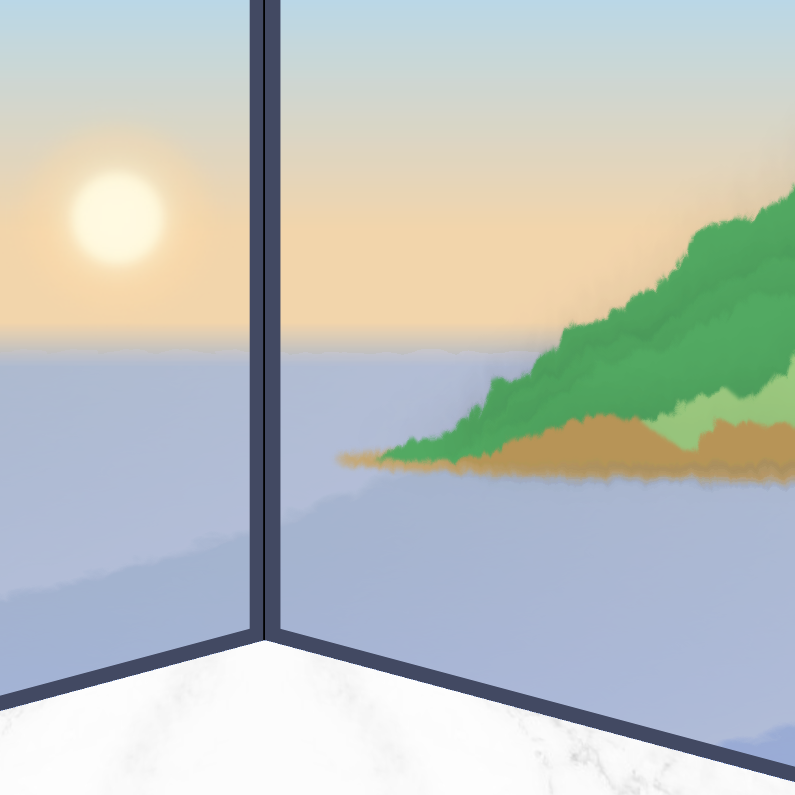
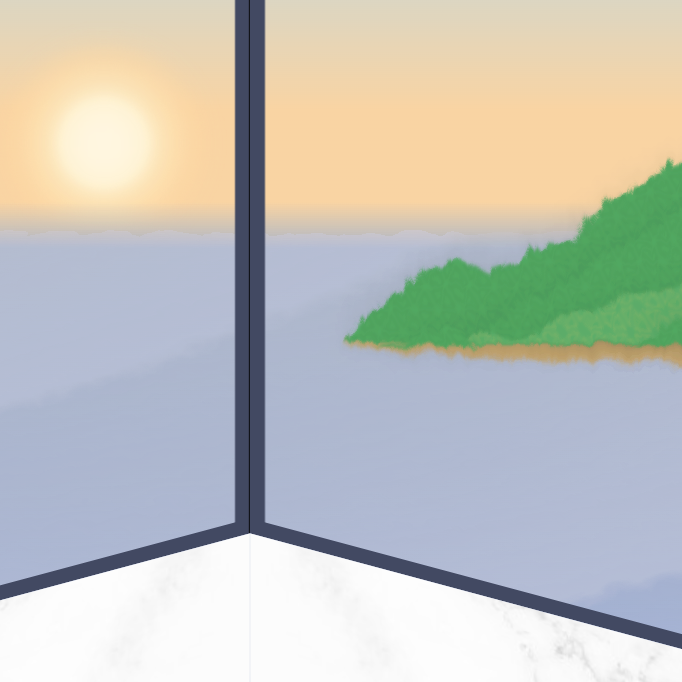
Removed unused svg and use more homogenous mountain colours

diff --git a/src/components/MountainOcean.tsx b/src/components/MountainOcean.tsx
@@ -86,7 +86,7 @@ const Mountains = () => {
           className={styles.mountainBase}
           cx="100"
           cy="95"
-          rx="102.5"
+          rx="100"
           ry="3"
         ></ellipse>
         <path
@@ -106,13 +106,6 @@ const Mountains = () => {
         <path
           className={styles.mountain2}
           d={
-            generateMountainPath({ x: 5, y: 95 }, { x: 100, y: 55 }, 5) +
-            generateMountainPath({ x: 100, y: 55 }, { x: 195, y: 95 }, 5)
-          }
-        ></path>
-        <path
-          className={styles.mountain2}
-          d={
             generateMountainPath({ x: 10, y: 95 }, { x: 100, y: 60 }, 5) +
             generateMountainPath({ x: 100, y: 60 }, { x: 190, y: 95 }, 5)
           }
@@ -125,7 +118,7 @@ const Mountains = () => {
           }
         ></path>
         <path
-          className={styles.mountain3}
+          className={styles.mountain2}
           d={
             generateMountainPath({ x: 0, y: 95.5 }, { x: 100, y: 90 }, 5) +
             generateMountainPath({ x: 100, y: 90 }, { x: 200, y: 95.5 }, 5)
@@ -138,13 +131,6 @@ const Mountains = () => {
           d={
             generateMountainPath({ x: -60, y: 100 }, { x: 0, y: 20 }, 6) +
             generateMountainPath({ x: 0, y: 20 }, { x: 60, y: 100 }, 6)
-          }
-        ></path>
-        <path
-          className={styles.mountain3}
-          d={
-            generateMountainPath({ x: -100, y: 100 }, { x: 0, y: 80 }, 5) +
-            generateMountainPath({ x: 0, y: 80 }, { x: 100, y: 100 }, 5)
           }
         ></path>
       </svg>
@@ -168,6 +154,27 @@ const MountainTexture = () => {
           <feDisplacementMap scale="9" in="SourceGraphic"></feDisplacementMap>
         </filter>
         <pattern
+          id="mountain-texture-1"
+          patternUnits="userSpaceOnUse"
+          width="16.5"
+          height="32.877"
+          patternTransform="scale(0.15)"
+        >
+          <rect
+            x="0"
+            y="0"
+            width="100%"
+            height="100%"
+            fill="hsla(131, 39%, 46%, 1)"
+          />
+          <path
+            d="M-5 2l5 10L5 2zm16.5 0l5 10 5-10zM8.25 4.438l-5 10h10zm-5 14l5 10.001 5-10zM0 20.878l-5 10H5zm16.5 0l-5 10h10z"
+            stroke-width="1"
+            stroke="hsla(96, 34%, 51%, 1)"
+            fill="none"
+          />
+        </pattern>
+        <pattern
           id="mountain-texture-2"
           patternUnits="userSpaceOnUse"
           width="16.5"
@@ -184,49 +191,7 @@ const MountainTexture = () => {
           <path
             d="M-5 2l5 10L5 2zm16.5 0l5 10 5-10zM8.25 4.438l-5 10h10zm-5 14l5 10.001 5-10zM0 20.878l-5 10H5zm16.5 0l-5 10h10z"
             stroke-width="1"
-            stroke="hsla(131, 44%, 36%, 1)"
-            fill="none"
-          />
-        </pattern>
-        <pattern
-          id="mountain-texture-1"
-          patternUnits="userSpaceOnUse"
-          width="16.5"
-          height="32.877"
-          patternTransform="scale(0.15)"
-        >
-          <rect
-            x="0"
-            y="0"
-            width="100%"
-            height="100%"
-            fill="hsla(97, 41%, 61%, 1)"
-          />
-          <path
-            d="M-5 2l5 10L5 2zm16.5 0l5 10 5-10zM8.25 4.438l-5 10h10zm-5 14l5 10.001 5-10zM0 20.878l-5 10H5zm16.5 0l-5 10h10z"
-            stroke-width="1"
-            stroke="hsla(96, 34%, 51%, 1)"
-            fill="none"
-          />
-        </pattern>
-        <pattern
-          id="mountain-texture-3"
-          patternUnits="userSpaceOnUse"
-          width="16.5"
-          height="32.877"
-          patternTransform="scale(0.15)"
-        >
-          <rect
-            x="0"
-            y="0"
-            width="100%"
-            height="100%"
-            fill="hsla(38, 44%, 48%, 1)"
-          />
-          <path
-            d="M-5 2l5 10L5 2zm16.5 0l5 10 5-10zM8.25 4.438l-5 10h10zm-5 14l5 10.001 5-10zM0 20.878l-5 10H5zm16.5 0l-5 10h10z"
-            stroke-width="1"
-            stroke="hsla(38, 45%, 43%, 1)"
+            stroke="hsla(131, 44%, 38%, 1)"
             fill="none"
           />
         </pattern>

diff --git a/src/styles/MountainOcean.module.scss b/src/styles/MountainOcean.module.scss
@@ -258,17 +258,12 @@
 
 .mountain1 {
   fill: url("#mountain-texture-1");
-  filter: drop-shadow(0 -1px 3px rgba(0, 0, 0, 0.1)) blur(0.18px);
+  filter: drop-shadow(0 0 1.5px rgba(0, 0, 0, 0.1)) blur(0.18px);
 }
 
 .mountain2 {
   fill: url("#mountain-texture-2");
-  filter: drop-shadow(0 -1px 3px rgba(0, 0, 0, 0.1)) blur(0.18px);
-}
-
-.mountain3 {
-  fill: url("#mountain-texture-3");
-  filter: drop-shadow(0 -1px 3px rgba(0, 0, 0, 0.1)) blur(0.18px);
+  filter: drop-shadow(0 0 1.5px rgba(0, 0, 0, 0.1)) blur(0.18px);
 }
 
 .mountainBase {
